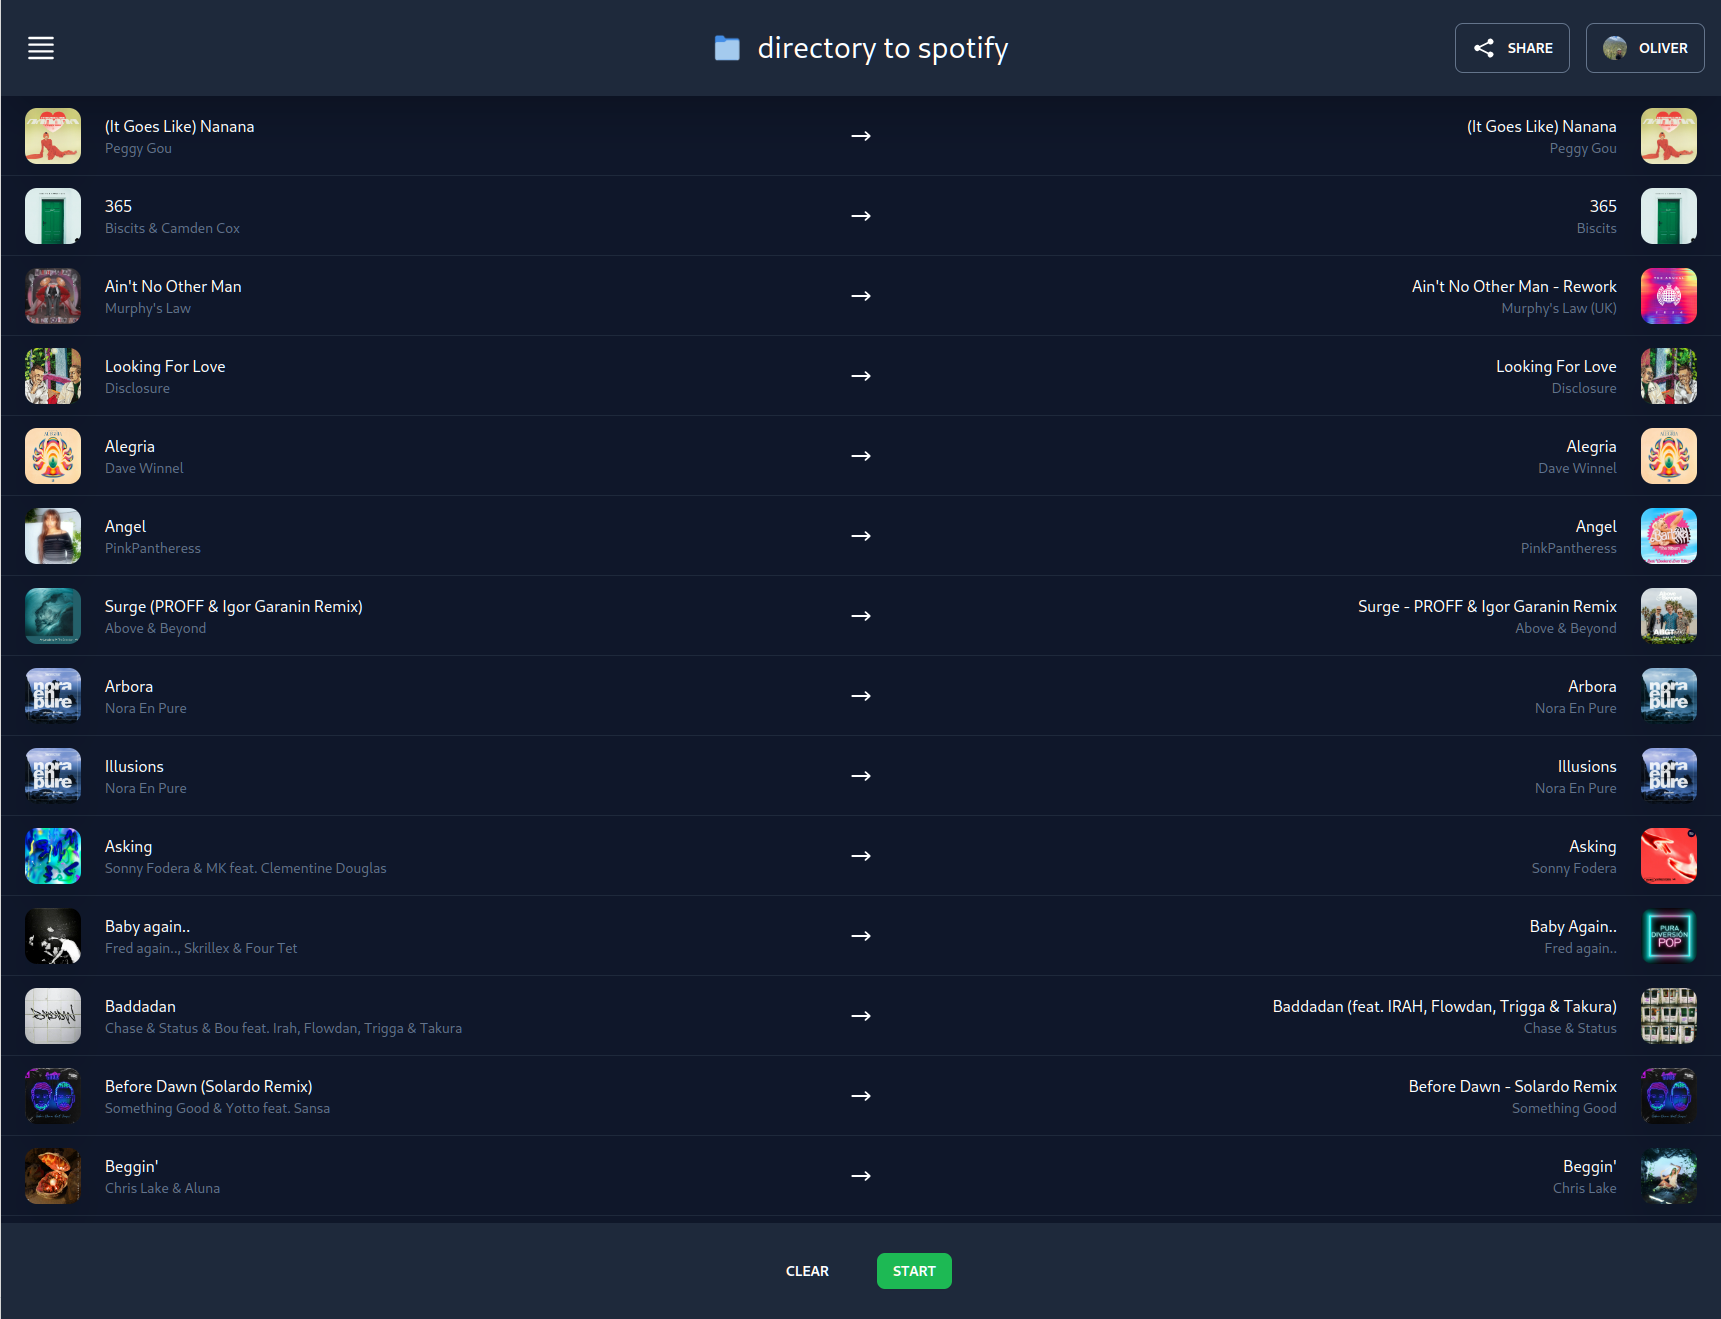
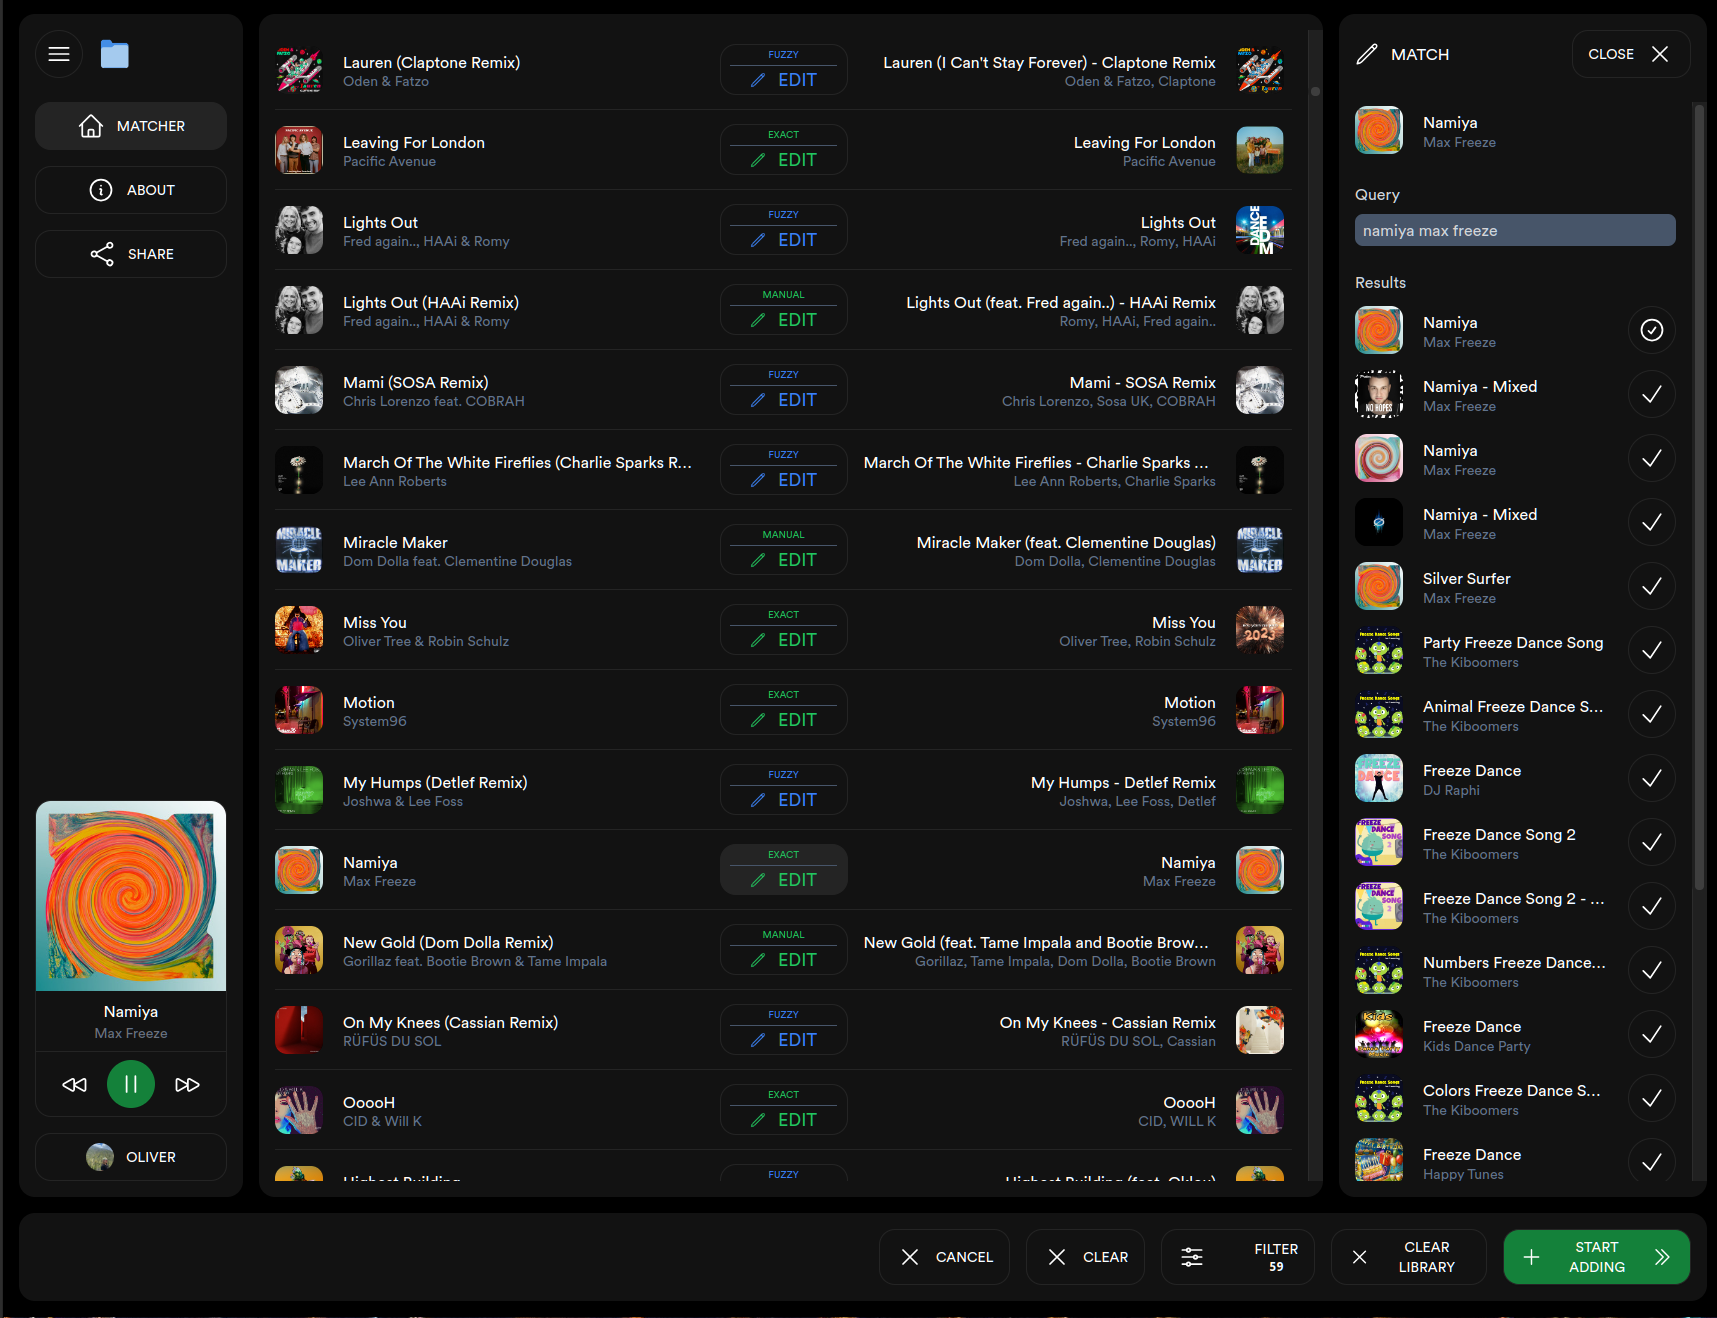
sync

diff --git a/client/src/layout/pages/projects/context.tsx b/client/src/layout/pages/projects/context.tsx
@@ -1,5 +1,10 @@
 import directoryToSpotifyLogoPath from "assets/projects/directory-to-spotify/logo.png?background=transparent&fit=contain&aspect=1:1&w=64&allowUpscale=true&format=png";
 import directoryToSpotifyScreenShotOneLogoPath from "assets/projects/directory-to-spotify/screenshot-1.png";
+import directoryToSpotifyScreenShotTwoLogoPath from "assets/projects/directory-to-spotify/screenshot-2.png";
+import directoryToSpotifyScreenShotThreeLogoPath from "assets/projects/directory-to-spotify/screenshot-3.png";
+import directoryToSpotifyScreenShotFourLogoPath from "assets/projects/directory-to-spotify/screenshot-4.png";
+import directoryToSpotifyScreenShotFiveLogoPath from "assets/projects/directory-to-spotify/screenshot-5.png";
+import directoryToSpotifyScreenShotSixLogoPath from "assets/projects/directory-to-spotify/screenshot-6.png";
 import xtremeHipHopLogoPath from "assets/projects/xtremehiphop/logo.png?background=transparent&fit=contain&aspect=1:1&w=64&allowUpscale=true&format=png";
 import xtremeHipHopScreenShotOneLogoPath from "assets/projects/xtremehiphop/screenshot-1.png";
 import xtremeHipHopScreenShotTwoLogoPath from "assets/projects/xtremehiphop/screenshot-2.png";
@@ -55,15 +60,37 @@ export const projects: Project[] = [
 	{
 		code: "directorytospotify",
 		label: "Directory to Spotify",
-		features: ["Scan a directory of music files.", "Add songs to liked songs or playlists on Spotify."],
+		features: [
+			"Scan a directory of music files.",
+			"Add songs to liked songs or playlists on Spotify.",
+			"Preview songs before adding them.",
+			"Visualize the scanning process.",
+		],
 		technologies: ["React", "TailwindCSS", "Heroicons", "Spotify Web API", "Web Workers", "Redux"],
 		image: directoryToSpotifyLogoPath,
-		screenshots: [directoryToSpotifyScreenShotOneLogoPath],
+		screenshots: [
+			directoryToSpotifyScreenShotOneLogoPath,
+			directoryToSpotifyScreenShotTwoLogoPath,
+			directoryToSpotifyScreenShotThreeLogoPath,
+			directoryToSpotifyScreenShotFourLogoPath,
+			directoryToSpotifyScreenShotFiveLogoPath,
+			directoryToSpotifyScreenShotSixLogoPath,
+		],
 		sourceCodeUrl: "https://github.com/olyop/directory-to-spotify",
 		text: "A web application that allows users to scan a directory of music files and add them to their liked songs or playlists on Spotify.",
 		url: "https://directorytospotify.com/",
 		description: `
 			I developed this web application as a personal project to learn about various new web technologies.
+
+			One of the main challenges was to scan a directory of music files and extract metadata from them.
+			I used web workers to offload the scanning process from the main thread to prevent the UI from freezing.
+			
+			To match the songs I had to normalize the metadata text and the search results. I then used a fuzzy search algorithm to find the best match.
+			Exact matches are chosen first, then matches with the same artist, then matches with the same album, and finally matches with the same title.
+			Every match is ranked from a match score from 0 to 1 to further refine the results.
+
+			This application is 100% client-side and does not require a server to run.
+			It uses the Spotify Web API to add songs to the user's library and playlists.
 		`,
 	},
 ];
